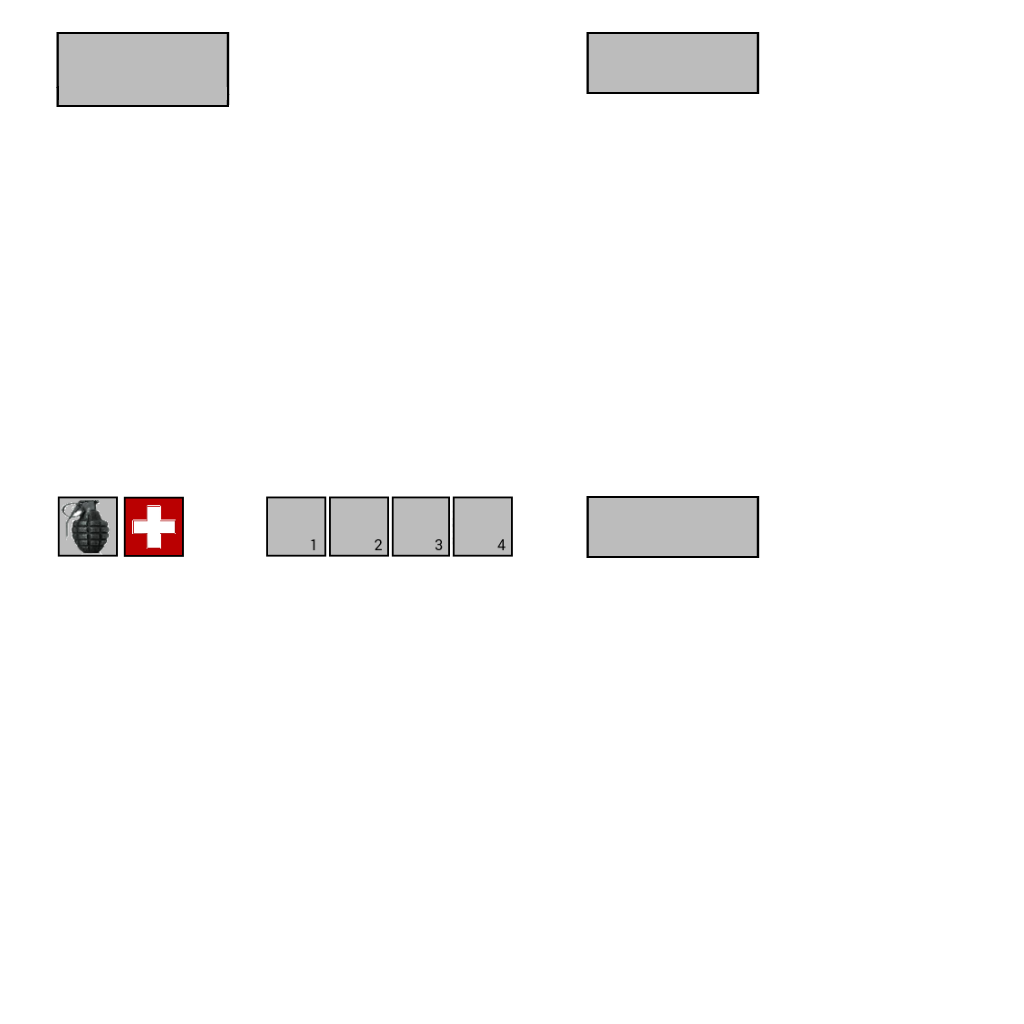
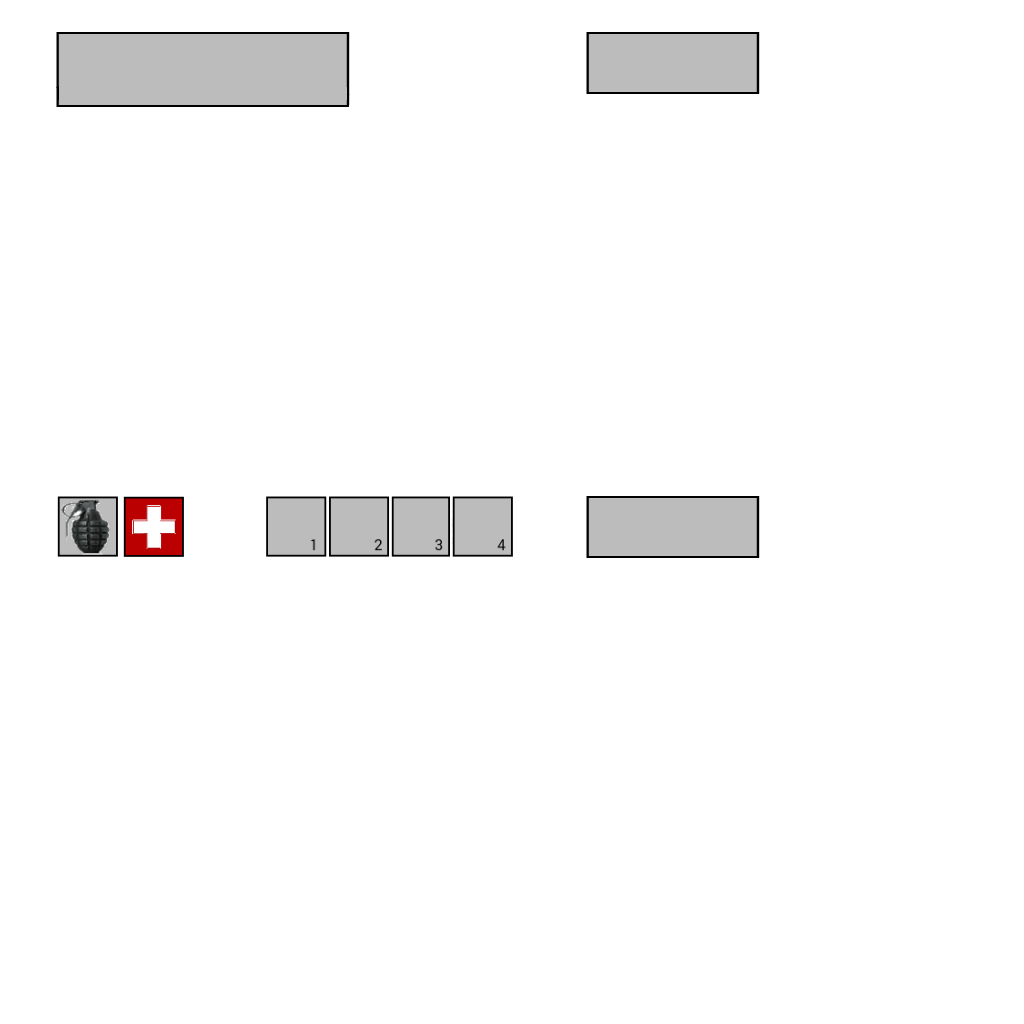
Added new HUD and loading info

Changed region(s): [[0.2188, 0.0312, 0.3438, 0.125]]

diff --git a/source/GameplayState.cpp b/source/GameplayState.cpp
@@ -201,7 +201,8 @@ Entity*	GameplayState::CreatePlayer() const
 
 	// Start Zombie Factory
 	zombieFactory = new ZombieFactory;
-	zombieFactory->LoadWaves("resource/data/singleEnemy.xml");
+	//zombieFactory->LoadWaves("resource/data/singleEnemy.xml");
+	zombieFactory->LoadWaves("resource/data/longbuildtime.xml");
 	zombieFactory->Start();
 	zombieFactory->SetSpawnWidth(pWorld->GetWorldWidth() * pWorld->GetTileWidth());
 	zombieFactory->SetSpawnHeight(pWorld->GetWorldHeight() * pWorld->GetTileHeight());
@@ -903,11 +904,11 @@ Entity*	GameplayState::CreatePlayer() const
 						pGraphics->DrawRectangle(DRAWSELECTED(121, 494, 66, 66));
 						break;
 
-					case 2:		// 3 - Mines
+					case 2:		// 3 - Bear Traps
 						pGraphics->DrawRectangle(DRAWSELECTED(189, 494, 66, 66));
 						break;
 
-					case 3:		// 4 - Bear Traps
+					case 3:		// 4 - Mines
 						pGraphics->DrawRectangle(DRAWSELECTED(257, 494, 66, 66));
 						break;
 
@@ -967,26 +968,25 @@ Entity*	GameplayState::CreatePlayer() const
 				}
 
 				// -- Draw the score --
-				string score = "Score: ";
-				score += std::to_string(player->GetScore());
-				m_pFont->Draw(score.c_str(), 50, 70, 0.8f, { 255, 255, 255 });
+				string score = "Points";
+				m_pFont->Draw(std::to_string(player->GetScore()).c_str(), 665, 60, 0.45f, { 255, 255, 255 });
+				m_pFont->Draw(score.c_str(), 665, 35, 0.45f, { 255, 255, 255 });
 
 				// -- Draw the wave number --
 				string waveNum = "Wave: ";
 				waveNum += std::to_string(zombieFactory->GetWave());
-				m_pFont->Draw(waveNum.c_str(), 350, 60, 0.6f, { 255, 255, 255 });
+				m_pFont->Draw(waveNum.c_str(), 64, 38, 0.5f, { 255, 255, 255 });
 
-				// -- Draw the time remaining [during build mode] --
 				if (zombieFactory->IsBuildMode())
 				{
 					// Turn the cursor off for build mode
 					if(pGraphics->IsCursorShowing() == true)
 						pGraphics->TurnCursorOff();
 
-					string timeRemaining = "Time remaining: ";
-					timeRemaining += (std::to_string(zombieFactory->GetBuildTimeRemaining() / 100.0f));
-					timeRemaining += " secs";
-					m_pFont->Draw(timeRemaining.c_str(), 180, 30, 0.6f, { 255, 255, 255 });
+					//string timeRemaining = "Time remaining: ";
+					//timeRemaining += (std::to_string(zombieFactory->GetBuildTimeRemaining() / 100.0f));
+					//timeRemaining += " secs";
+					//m_pFont->Draw(timeRemaining.c_str(), 180, 30, 0.6f, { 255, 255, 255 });
 
 					m_pFont->Draw("Time to Build!", 340, 110, 0.4f, { 255, 255, 0 });
 				}
@@ -996,63 +996,87 @@ Entity*	GameplayState::CreatePlayer() const
 					// Turn the cursor on when not in build mode
 
 					string enemiesRemaining = "Enemies Remaining: ";
-					m_pFont->Draw(enemiesRemaining.c_str(), 225, 30, 0.6f, { 255, 255, 255 });
+					m_pFont->Draw(enemiesRemaining.c_str(), 68, 66, 0.45f, { 255, 255, 255 });
 
 					int numOfEnemies = zombieFactory->GetEnemiesRemaining();
 					if (numOfEnemies <= 3)
-						m_pFont->Draw(std::to_string(numOfEnemies).c_str(), 495, 30, 0.6f, { 255, 0, 0 });
+						m_pFont->Draw(std::to_string(numOfEnemies).c_str(), 264, 66, 0.45f, { 255, 0, 0 });
 					else
-						m_pFont->Draw(std::to_string(numOfEnemies).c_str(), 495, 30, 0.6f, { 255, 255, 255 });
+						m_pFont->Draw(std::to_string(numOfEnemies).c_str(), 264, 66, 0.45f, { 255, 255, 255 });
 
 				}
 
-				// Temporarily commented
-				/*
-				// -- Draw the items --
+				// TODO: In polish, make #defines for hud spacing so you dont have to add/subtract all
+				// the goddamn time.
+				// -- Draw the items and their quantities --
 
 				// Get the inventory
 				Inventory* inv = player->GetInventory();
 
-				// Draw the number of healthpacks
-				m_pFont->Draw(std::to_string(inv->GetHealthPacks()).c_str(), 83, 392, 0.4f, { 255, 255, 255 });
+				// If we're in build mode
+				if (zombieFactory->IsBuildMode())
+				{
+					// Draw the number of walls
+					m_pFont->Draw(std::to_string(inv->GetWalls()).c_str(), 54, 496, 0.4f, { 255, 255, 255 });
 
-				// Draw the number of grenades
-				m_pFont->Draw(std::to_string(inv->GetGrenades()).c_str(), 83, 462, 0.4f, { 255, 255, 255 });
+					// Draw the number of windows
+					m_pFont->Draw(std::to_string(inv->GetWindows()).c_str(), 123, 496, 0.4f, { 255, 255, 255 });
 
-				// Draw the number of walls
-				m_pFont->Draw(std::to_string(inv->GetWalls()).c_str(), 75, 532, 0.4f, { 255, 255, 255 });
+					// Draw the number of beartraps
+					m_pFont->Draw(std::to_string(inv->GetBearTraps()).c_str(), 191, 496, 0.4f, { 255, 255, 255 });
 
-				// Draw the number of windows
-				m_pFont->Draw(std::to_string(inv->GetWindows()).c_str(), 140, 532, 0.4f, { 255, 255, 255 });
+					// Draw the number of mines
+					m_pFont->Draw(std::to_string(inv->GetMines()).c_str(), 260, 496, 0.4f, { 255, 255, 255 });
 
-				// Draw the number of beartraps
-				m_pFont->Draw(std::to_string(inv->GetBearTraps()).c_str(), 220, 532, 0.4f, { 255, 255, 255 });
+					// Draw the number of MG Towers
+					m_pFont->Draw(std::to_string(inv->GetMachineGunTowers()).c_str(), 327, 496, 0.4f, { 255, 255, 255 });
 
-				// Draw the number of mines
-				m_pFont->Draw(std::to_string(inv->GetMines()).c_str(), 298, 532, 0.4f, { 255, 255, 255 });
+					// Draw the number of Maple Syrup Towers
+					m_pFont->Draw(std::to_string(inv->GetMapleSyrupTowers()).c_str(), 395, 496, 0.4f, { 255, 255, 255 });
 
-				// -- Draw the selected weapon -- 
+					// Draw the number of Hockey Stick Towers
+					m_pFont->Draw(std::to_string(inv->GetHockeyStickTowers()).c_str(), 463, 496, 0.4f, { 255, 255, 255 });
 
-				// Get the weapons
-				Weapon* weapons = player->GetWeapons();
-				string names[4] = { "Assault Rifle", "Shotgun", "Rocket Launcher", "Fire Axe" };
-				SGD::HTexture textures[4] = { m_hARPic, m_hShotgunPic, m_hRLPic, m_hFireAxePic };
+					// Draw the number of Laser Towers
+					m_pFont->Draw(std::to_string(inv->GetLaserTowers()).c_str(), 531, 496, 0.4f, { 255, 255, 255 });
 
-				// Draw the name of the selected weapon
-				m_pFont->Draw(names[player->GetCurrWeapon()], 515, 435, 0.4f, { 255, 255, 255 });
+					// Draw the number of Lava Traps
+					m_pFont->Draw(std::to_string(inv->GetLavaTraps()).c_str(), 599, 496, 0.4f, { 255, 255, 255 });
+					
+					// Draw the number of Spike Traps
+					m_pFont->Draw(std::to_string(inv->GetSpikeTraps()).c_str(), 667, 496, 0.4f, { 255, 255, 255 });
 
-				// Draw the picture of the selected pic
-				pGraphics->DrawTextureSection(textures[player->GetCurrWeapon()], { 506, 466 }, { 0, 0, 160, 80 });
+				}
 
-				// Draw the ammo of the selected weapon
-				m_pFont->Draw(std::to_string(weapons[player->GetCurrWeapon()].GetCurrAmmo()).c_str(), 700, 494, 0.6f, { 255, 255, 255 });
+				// If we're not in build mode
+				else
+				{
 
-				// -- Draw the offhand weapons ammos --
-				m_pFont->Draw(std::to_string(weapons[0].GetCurrAmmo()).c_str(), 510, 375, 0.5f, { 255, 255, 255 });
-				m_pFont->Draw(std::to_string(weapons[1].GetCurrAmmo()).c_str(), 580, 375, 0.5f, { 255, 255, 255 });
-				m_pFont->Draw(std::to_string(weapons[2].GetCurrAmmo()).c_str(), 660, 375, 0.5f, { 255, 255, 255 });
-				*/
-				//Draw the grid rectange
+					// --- Draw grenades and healthpacks --
+
+					// Draw the number of grenades
+					m_pFont->Draw(std::to_string(inv->GetGrenades()).c_str(), 98, 532, 0.4f, { 255, 255, 255 });
+
+					// Draw the number of healthpacks
+					m_pFont->Draw(std::to_string(inv->GetHealthPacks()).c_str(), 163, 532, 0.4f, { 255, 255, 255 });
+
+					// -- Draw the selected weapon and it's ammo -- 
+
+					// Get the weapons
+					Weapon* weapons = player->GetWeapons();
+					SGD::HTexture textures[4] = { m_hARPic, m_hShotgunPic, m_hRLPic, m_hBackground };
+
+					// Draw the picture of the selected pic
+					pGraphics->DrawTextureSection(textures[player->GetCurrWeapon()], { 590, 500 }, SGD::Rectangle({ 0, 0 }, SGD::Size(115, 48)));
+
+					// Draw the ammo of the selected weapon
+					if (weapons[player->GetCurrWeapon()].GetCurrAmmo() < 10)
+						m_pFont->Draw(std::to_string(weapons[player->GetCurrWeapon()].GetCurrAmmo()).c_str(), 695, 515, 0.6f, { 255, 0, 0 });
+					else
+						m_pFont->Draw(std::to_string(weapons[player->GetCurrWeapon()].GetCurrAmmo()).c_str(), 695, 515, 0.6f, { 255, 255, 255 });
+				}
+
+				//Draw the grid rectangle
 				SGD::Point pos = SGD::InputManager::GetInstance()->GetMousePosition();
 				//NOTE: why did it take this much work? did i do something wrong?
 				/*pos.x = (pos.x + player->GetPosition().x - ((int)pos.x + (int)player->GetPosition().x) % 32) - Camera::x - 384;

diff --git a/source/Inventory.h b/source/Inventory.h
@@ -17,6 +17,9 @@ public:
 	unsigned int GetMapleSyrupTowers() { return m_unMapleSyrupTowers; }
 	unsigned int GetHockeyStickTowers() { return m_unHockeyStickTowers; }
 	unsigned int GetLaserTowers() { return m_unLaserTowers; }
+	unsigned int GetLavaTraps() { return m_unLavaTraps; }
+	unsigned int GetSpikeTraps() { return m_unSpikeTraps; }
+	
 
 	/**********************************************************/
 	// Mutators
@@ -30,6 +33,8 @@ public:
 	void SetMapleSyrupTowers(unsigned int mapleSyrupTowers) { m_unMapleSyrupTowers = mapleSyrupTowers; }
 	void SetHockeyStickTowers(unsigned int hockeyStickTowers) { m_unHockeyStickTowers = hockeyStickTowers; }
 	void SetLaserTowers(unsigned int laserTowers) { m_unLaserTowers = laserTowers; }
+	void SetLavaTraps(unsigned int lavaTraps) { m_unLavaTraps = lavaTraps; }
+	void SetSpikeTraps(unsigned int spikeTraps) { m_unSpikeTraps = spikeTraps; }
 
 private:
 
@@ -43,5 +48,7 @@ private:
 	unsigned int m_unMapleSyrupTowers;
 	unsigned int m_unHockeyStickTowers;
 	unsigned int m_unLaserTowers;
+	unsigned int m_unLavaTraps;
+	unsigned int m_unSpikeTraps;
 };
 

diff --git a/source/Player.cpp b/source/Player.cpp
@@ -77,6 +77,8 @@ Player::Player () : Listener ( this )
 	m_pInventory->SetMapleSyrupTowers(20);
 	m_pInventory->SetHockeyStickTowers(20);
 	m_pInventory->SetLaserTowers(20);
+	m_pInventory->SetLavaTraps(5);
+	m_pInventory->SetSpikeTraps(5);
 
 	m_pWeapons = new Weapon[ 4 ];
 #pragma region Load Weapons
